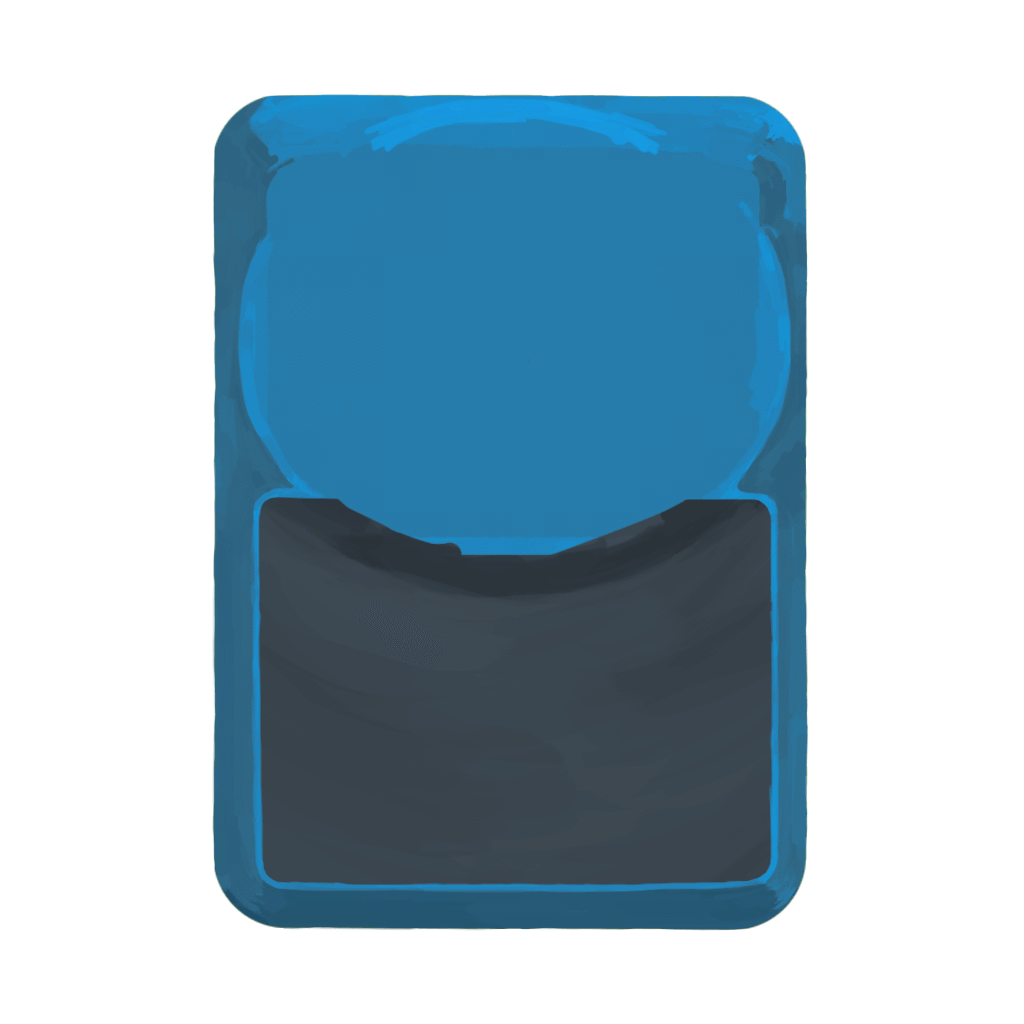
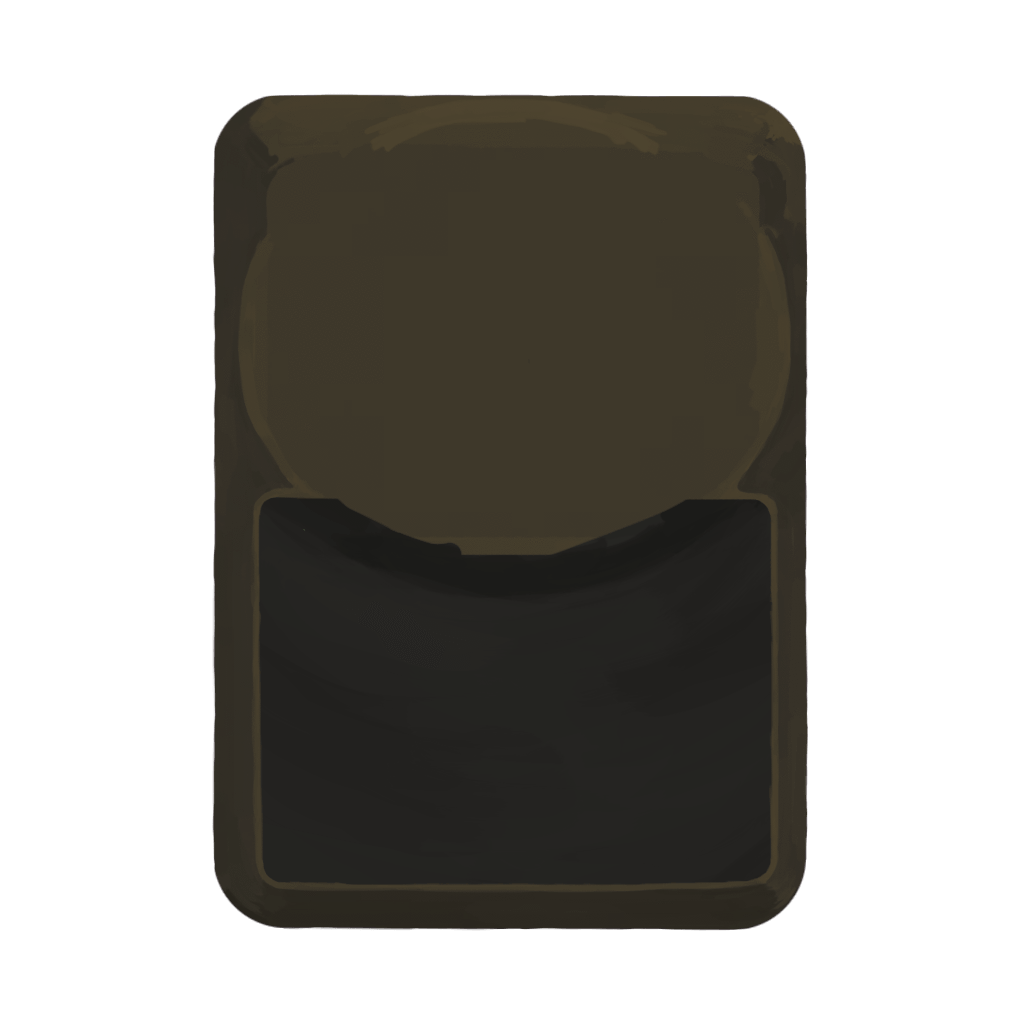
recolored card images

diff --git a/src/main/java/com/hyperkinetic/reborn/RebornMod.java b/src/main/java/com/hyperkinetic/reborn/RebornMod.java
@@ -28,7 +28,7 @@ import java.util.Map;
 public class RebornMod implements EditCardsSubscriber, EditCharactersSubscriber, EditKeywordsSubscriber,
         EditStringsSubscriber, EditRelicsSubscriber
 {
-    private static final Color REBORN_COLOR = CardHelper.getColor(0, 0, 0);
+    private static final Color REBORN_COLOR = CardHelper.getColor(62, 56, 42);
 
     private static final String ATTACK_BG = "Reborn/assets/small/attack_bg.png";
     private static final String SKILL_BG = "Reborn/assets/small/skill_bg.png";

diff --git a/src/main/java/com/hyperkinetic/reborn/characters/Reborn.java b/src/main/java/com/hyperkinetic/reborn/characters/Reborn.java
@@ -107,7 +107,7 @@ public class Reborn extends CustomPlayer
 
     @Override
     public Color getCardRenderColor() {
-        return new Color(0.2F, 0.0F, 0.8F, 0.9F);
+        return Color.BROWN;
     }
 
     @Override
@@ -117,7 +117,7 @@ public class Reborn extends CustomPlayer
 
     @Override
     public Color getCardTrailColor() {
-        return new Color(0.2F, 0.0F, 0.8F, 0.9F);
+        return Color.BROWN;
     }
 
     @Override
